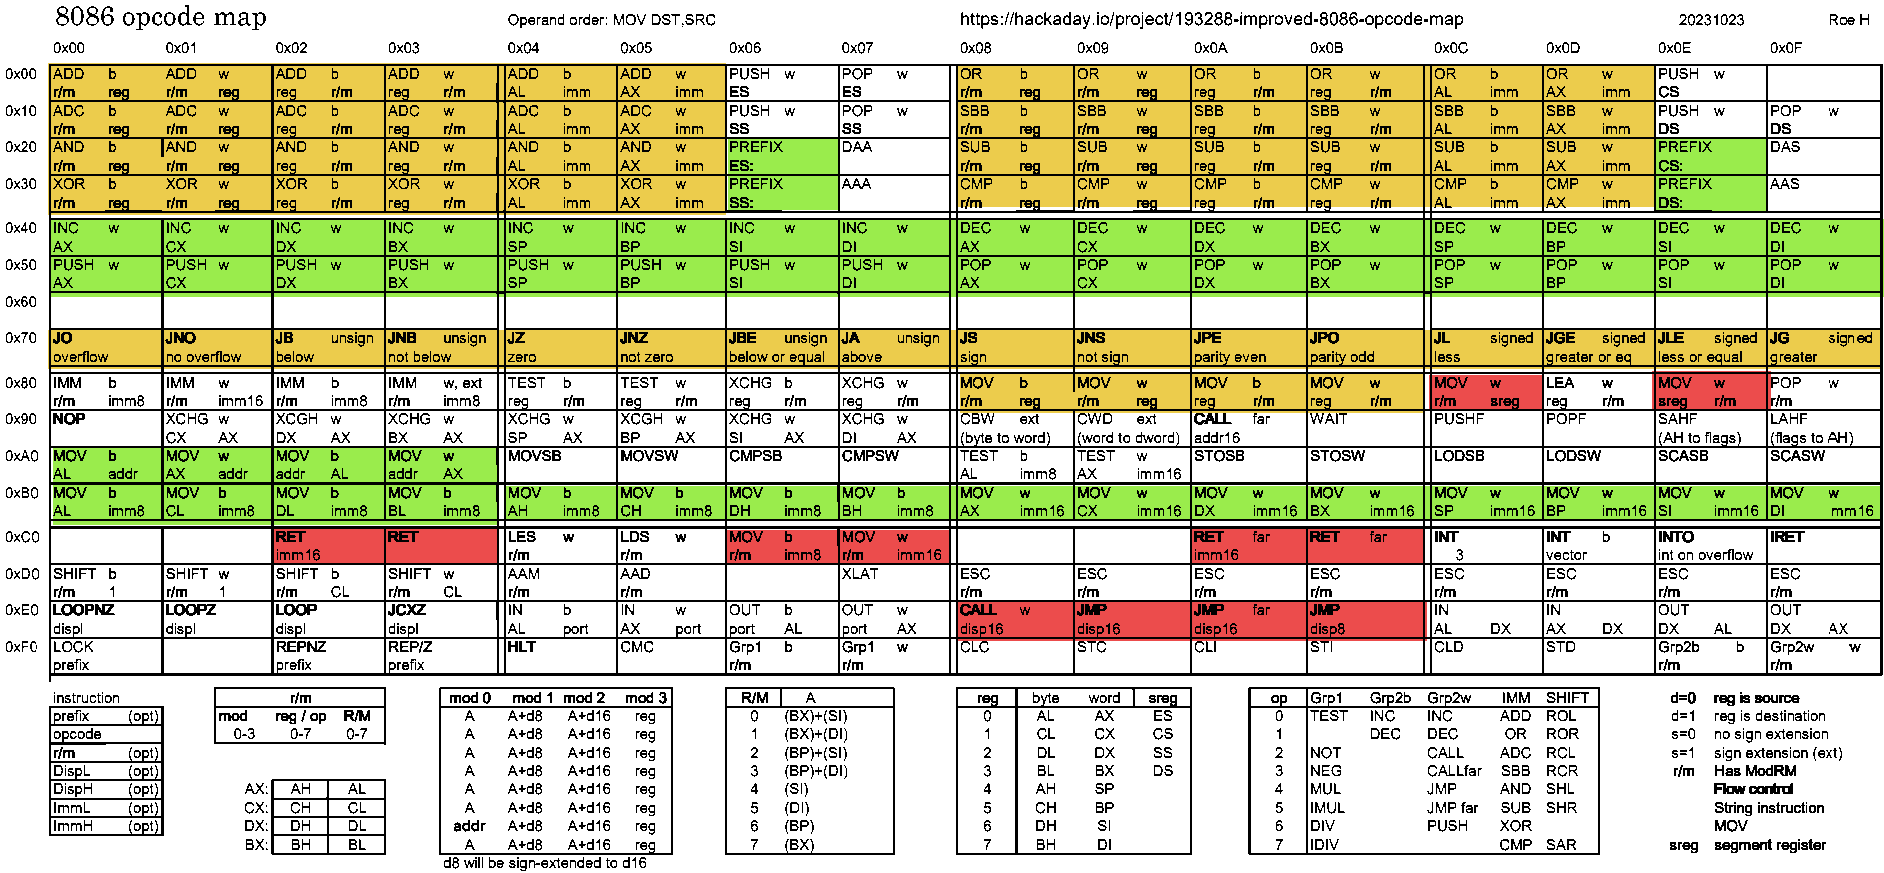
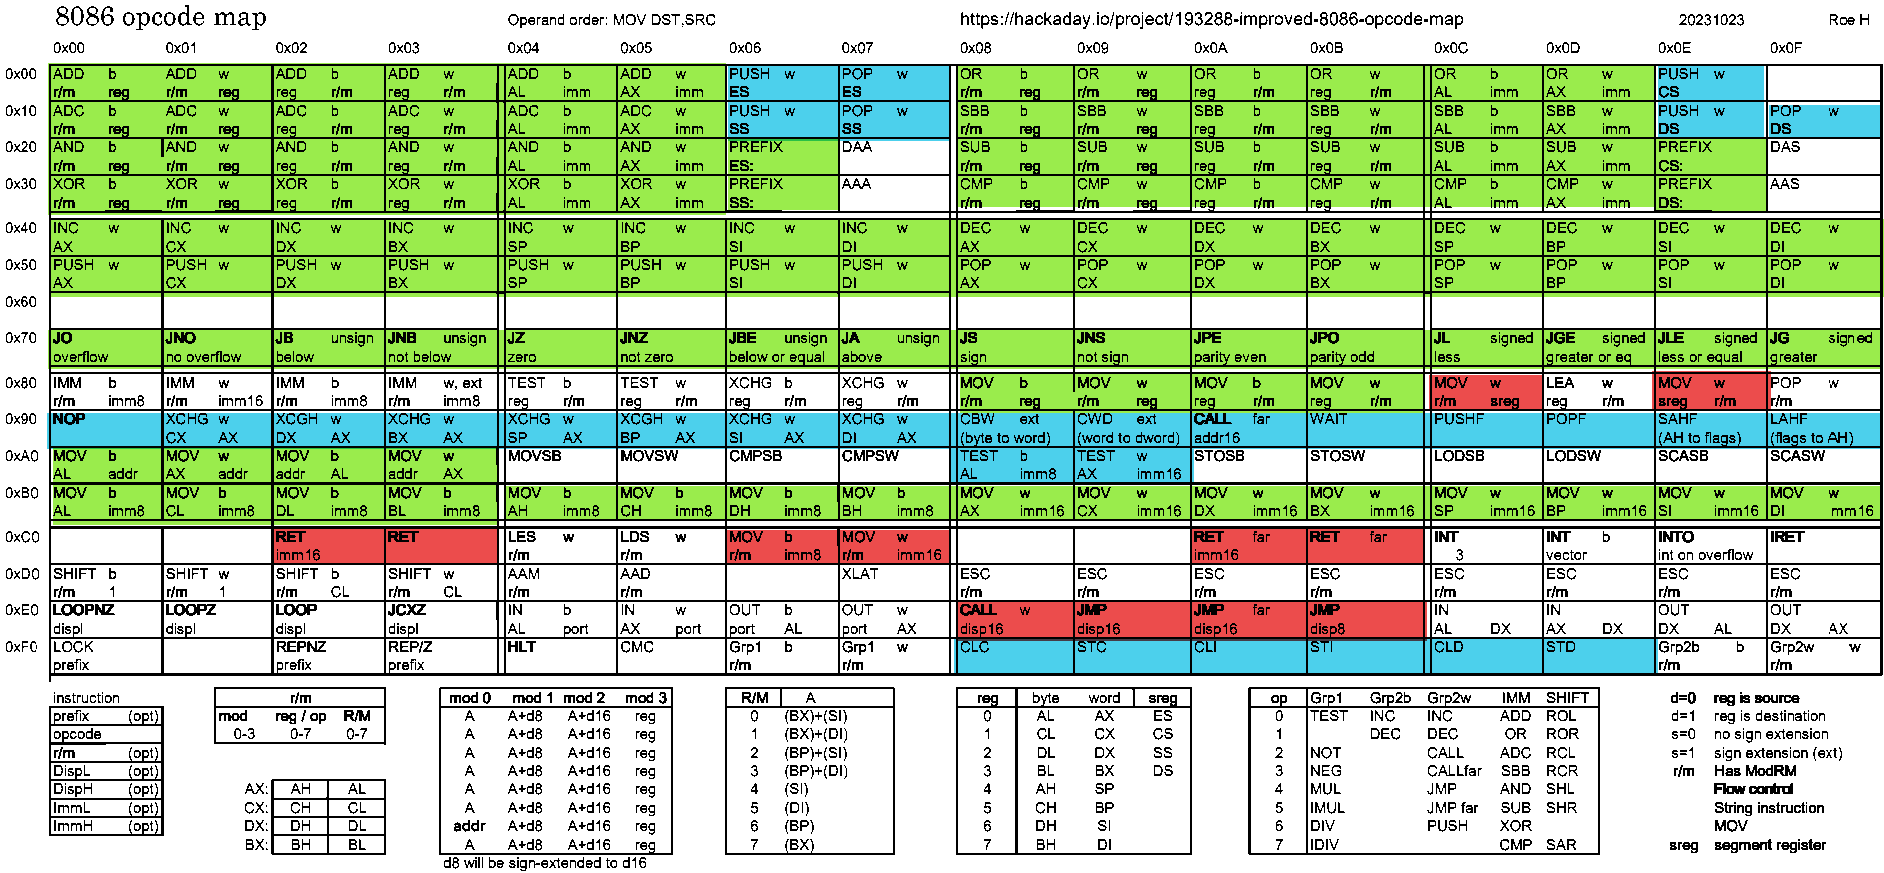
Updated progress

Changed region(s): [[0.0, 0.0619, 1.0, 0.2474], [0.0308, 0.3711, 1.0, 0.5567], [0.4926, 0.7113, 0.8928, 0.7732]]

diff --git a/README.md b/README.md
@@ -5,9 +5,10 @@ Written entirely in ANSI C, 0 dependency, -pedantic.
 # Virtualization progress
 "roleh" from [here](https://hackaday.io/project/193288-improved-8086-opcode-map) built a really nice map for 8086 instructions, helps a lot! So here's the current progress on the 8086 CPU:
 ![](8086-progress.png)
-Green - Implemented, pretty well tested.\
-Yellow - Implemented, in theory, not tested enough to be green.\
-Red - Unimplemented, on the radar to be implemented next.
+* `GREEN`: Implemented, adequately(for my standards) tested.\
+* `YELLOW`: Implemented, in theory, not tested enough to be green.\
+* `RED`: Unimplemented, on the radar to be implemented next.
+* `BLUE`: Unimplemented, but identified as relatively easy to implement.
 
 # Trigger warning
 The VM might be innacurate, simulating things incorrectly while appearing to give the same result,
